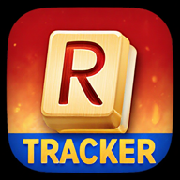
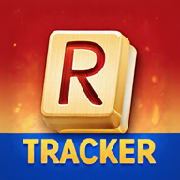
Updates

diff --git a/sw.js b/sw.js
@@ -1,1 +1,1 @@
-if(!self.define){let e,i={};const n=(n,s)=>(n=new URL(n+".js",s).href,i[n]||new Promise(i=>{if("document"in self){const e=document.createElement("script");e.src=n,e.onload=i,document.head.appendChild(e)}else e=n,importScripts(n),i()}).then(()=>{let e=i[n];if(!e)throw new Error(`Module ${n} didn’t register its module`);return e}));self.define=(s,r)=>{const f=e||("document"in self?document.currentScript.src:"")||location.href;if(i[f])return;let o={};const t=e=>n(e,f),c={module:{uri:f},exports:o,require:t};i[f]=Promise.all(s.map(e=>c[e]||t(e))).then(e=>(r(...e),o))}}define(["./workbox-8c29f6e4"],function(e){"use strict";self.skipWaiting(),e.clientsClaim(),e.precacheAndRoute([{url:"registerSW.js",revision:"a67a5bde046a69ec2217d1df9a00b79e"},{url:"index.html",revision:"e83d42e416968be49eae3092551f650b"},{url:"assets/index-gAPOn63x.css",revision:null},{url:"assets/index-C7JIKHRf.js",revision:null},{url:"assets/index-BeoRn2gJ.js",revision:null},{url:"apple-touch-icon.png",revision:"fd03067266c217cc915e8cff23af7a1f"},{url:"favicon.ico",revision:"7c4b6db4fc903ace63ffa2adc4bada1f"},{url:"pwa-192x192.png",revision:"1b225199b2c64f5f503f0f68963c0a16"},{url:"pwa-512x512.png",revision:"3f798f0d491c1fd8fe95e7e6a7d26e5b"},{url:"manifest.webmanifest",revision:"12f7bb91fdc7c477076700fb47130f7d"}],{}),e.cleanupOutdatedCaches(),e.registerRoute(new e.NavigationRoute(e.createHandlerBoundToURL("index.html")))});
+if(!self.define){let e,i={};const n=(n,s)=>(n=new URL(n+".js",s).href,i[n]||new Promise(i=>{if("document"in self){const e=document.createElement("script");e.src=n,e.onload=i,document.head.appendChild(e)}else e=n,importScripts(n),i()}).then(()=>{let e=i[n];if(!e)throw new Error(`Module ${n} didn’t register its module`);return e}));self.define=(s,r)=>{const o=e||("document"in self?document.currentScript.src:"")||location.href;if(i[o])return;let t={};const f=e=>n(e,o),l={module:{uri:o},exports:t,require:f};i[o]=Promise.all(s.map(e=>l[e]||f(e))).then(e=>(r(...e),t))}}define(["./workbox-8c29f6e4"],function(e){"use strict";self.skipWaiting(),e.clientsClaim(),e.precacheAndRoute([{url:"registerSW.js",revision:"a67a5bde046a69ec2217d1df9a00b79e"},{url:"index.html",revision:"e83d42e416968be49eae3092551f650b"},{url:"assets/index-gAPOn63x.css",revision:null},{url:"assets/index-C7JIKHRf.js",revision:null},{url:"assets/index-BeoRn2gJ.js",revision:null},{url:"apple-touch-icon.png",revision:"02304674e1ff927d10eed3fa4eedeaee"},{url:"favicon.ico",revision:"e1717efbc1c3a9dbfef49a723e0a7351"},{url:"pwa-192x192.png",revision:"c7e4fa72f3523c222eca45f82df4a828"},{url:"pwa-512x512.png",revision:"431a236670c8c912f46f967345e6da3e"},{url:"manifest.webmanifest",revision:"12f7bb91fdc7c477076700fb47130f7d"}],{}),e.cleanupOutdatedCaches(),e.registerRoute(new e.NavigationRoute(e.createHandlerBoundToURL("index.html")))});
